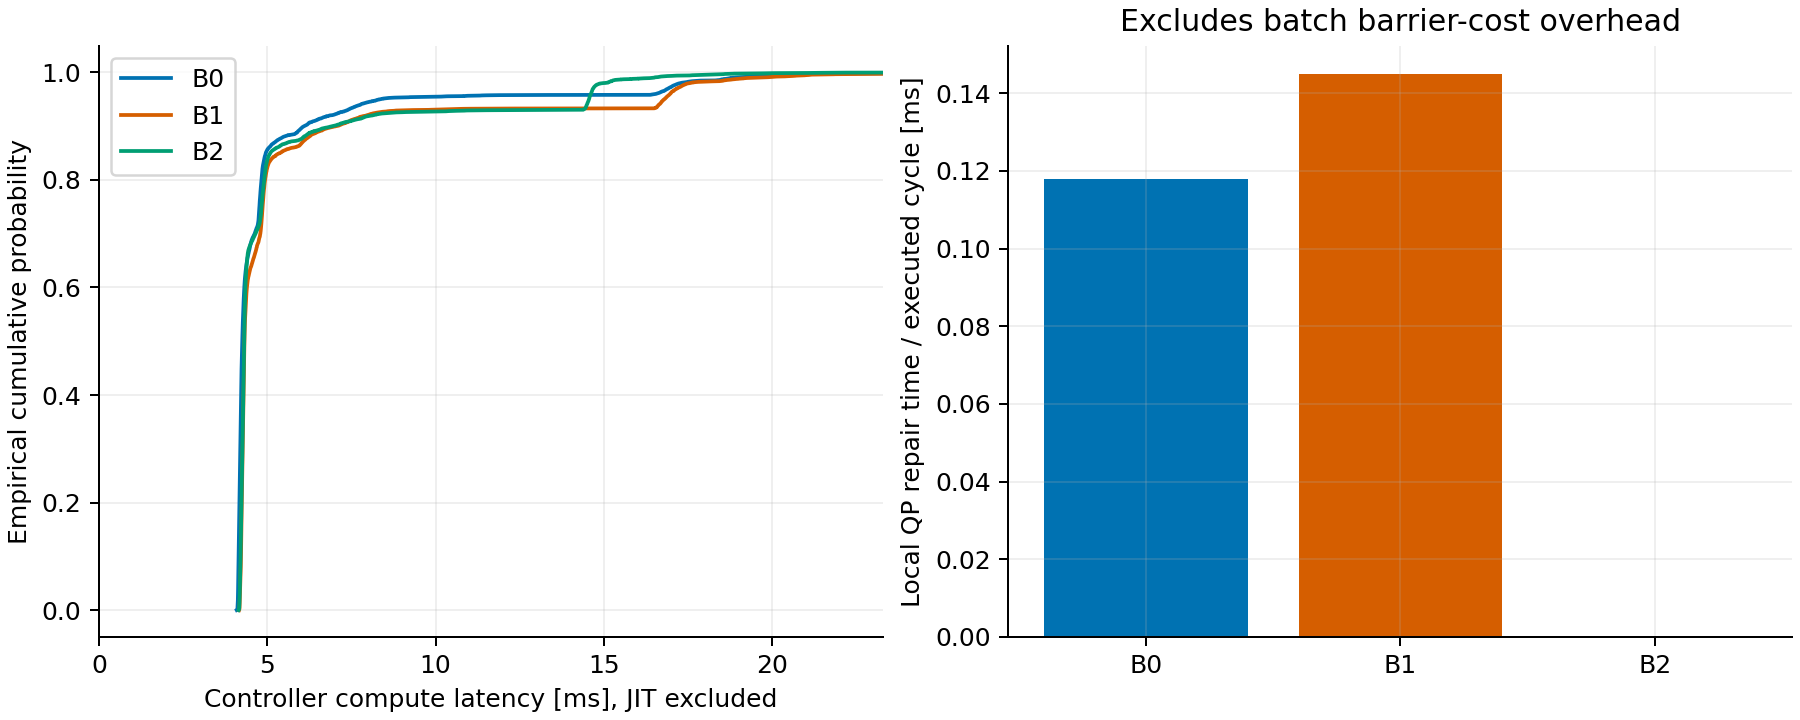
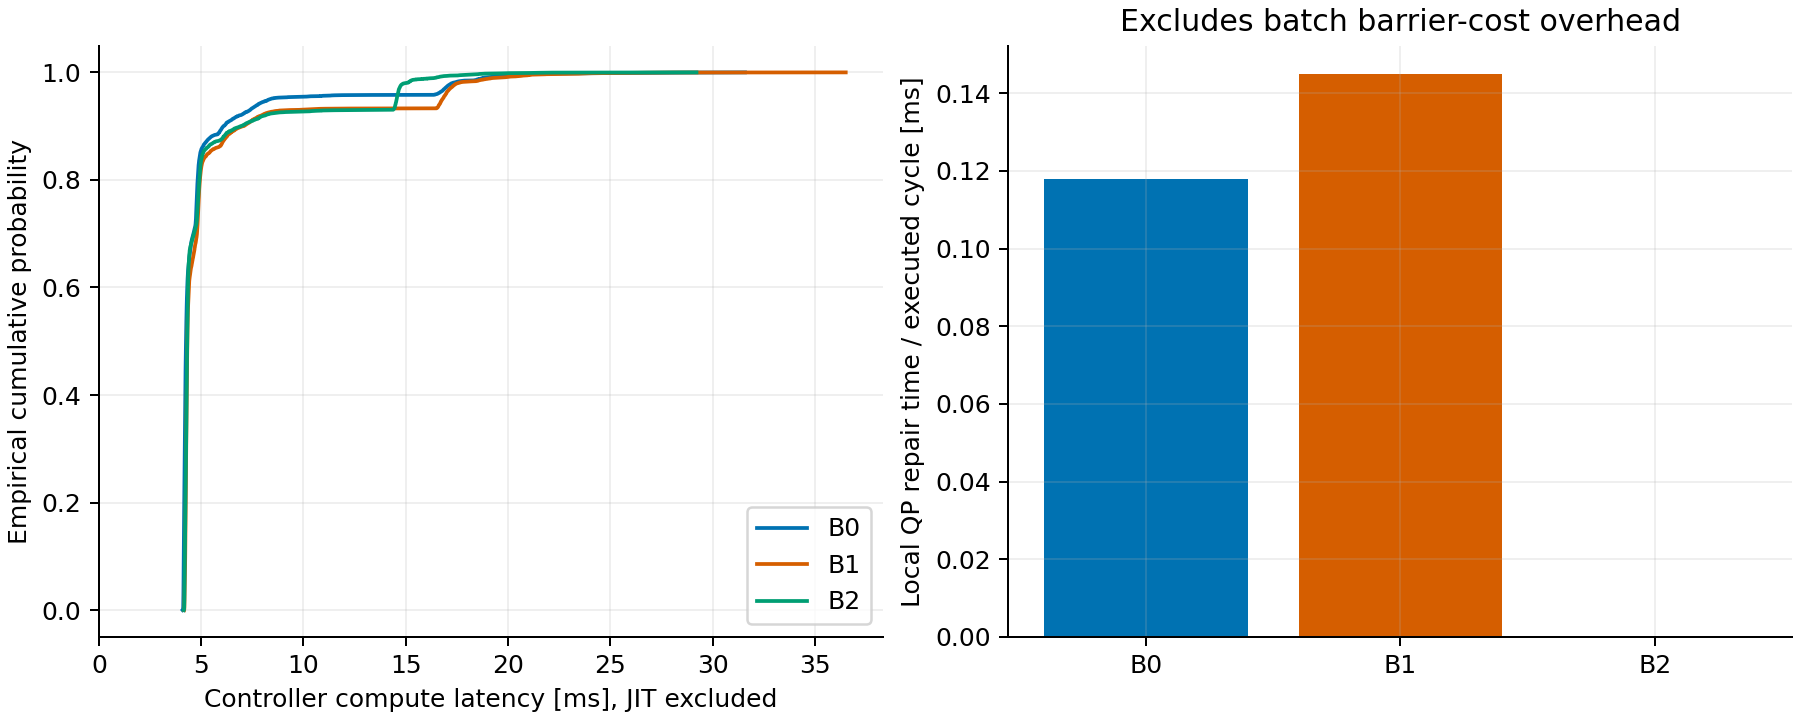
Include paired completion, planner latency and explicit result limitations in reports

diff --git a/experiments/report.py b/experiments/report.py
@@ -33,6 +33,7 @@ def report(source: Path, output: Path):
         raise ValueError("Incomplete or duplicate experiment matrix; cannot issue a final report")
     output.mkdir(parents=True, exist_ok=True)
     timing: dict[str, list[np.ndarray]] = {m: [] for m in manifest["methods"]}
+    miqp_timing: dict[str, list[np.ndarray]] = {m: [] for m in manifest["methods"]}
     end_contacts: dict[str, int] = {m: 0 for m in manifest["methods"]}
     for row in rows:
         if row["success"] == "True" and not np.isclose(float(row["sim_s"]), manifest["max_time"], rtol=0, atol=1e-9):
@@ -44,6 +45,7 @@ def report(source: Path, output: Path):
         if data["samples"].shape != (int(row["cycles"]), 19) or not np.allclose(data["samples"][:, 0], np.arange(1, int(row["cycles"]) + 1) * DT):
             raise ValueError("Trajectory rows do not match actual executed cycles")
         timing[row["method"]].append(data["cycle_ms"])
+        miqp_timing[row["method"]].append(data["miqp_ms"])
         end = data["samples"][-1]
         track = Track.load(row["track"])
         end_contacts[row["method"]] += int(any(collision(track, end[1:8], np.array([end[11+j], end[15+j], 0.0, 0.0]))
@@ -52,6 +54,7 @@ def report(source: Path, output: Path):
     for method in manifest["methods"]:
         selected = [r for r in rows if r["method"] == method]
         latencies = np.concatenate(timing[method])
+        high_latencies = np.concatenate(miqp_timing[method])
         repairs = sum(int(r["repair_attempts"]) for r in selected)
         repair_ms = sum(float(r["repair_total_ms"]) for r in selected)
         totals.append(dict(method=method, n=len(selected),
@@ -65,6 +68,9 @@ def report(source: Path, output: Path):
                            cycle_mean_ms=float(np.mean(latencies)),
                            cycle_p95_ms=float(np.percentile(latencies, 95)),
                            cycle_p99_ms=float(np.percentile(latencies, 99)),
+                           cycle_max_ms=float(np.max(latencies)),
+                           miqp_mean_ms=float(np.mean(high_latencies)),
+                           miqp_p95_ms=float(np.percentile(high_latencies, 95)),
                            cycles=len(latencies), deadline_overruns=int(np.sum(latencies > 100)),
                            repairs=repairs, repair_successes=sum(int(r["repair_successes"]) for r in selected),
                            repair_amortized_ms=repair_ms / len(latencies),
@@ -112,7 +118,7 @@ def report(source: Path, output: Path):
         axes[0].plot(data, np.linspace(0, 1, len(data)), color=COLORS[method], label=method)
     axes[0].set_xlabel("Controller compute latency [ms], JIT excluded")
     axes[0].set_ylabel("Empirical cumulative probability")
-    axes[0].set_xlim(0, max(r["cycle_p99_ms"] for r in totals) * 1.2)
+    axes[0].set_xlim(0, max(r["cycle_max_ms"] for r in totals) * 1.05)
     axes[0].legend()
     axes[1].bar([r["method"] for r in totals], [r["repair_amortized_ms"] for r in totals],
                 color=[COLORS[r["method"]] for r in totals])
@@ -158,6 +164,14 @@ def report(source: Path, output: Path):
         text.append(f"|{r['method']}|{r['completions']}/{r['n']}|{r['collisions']}|{r['boundary_failures']}|"
                     f"{r['mean_survival_s']:.1f}|{r['total_laps']:.2f}|{r['overtakes']}|{r['cycle_mean_ms']:.2f}|"
                     f"{r['cycle_p95_ms']:.2f}|{r['cycle_p99_ms']:.2f}|{r['repair_amortized_ms']:.3f}|")
+    lookup = {r["method"]: r for r in totals}
+    text += ["", "## 本次观察（不是成功预设）", ""]
+    if "B1" in lookup and "B0" in lookup:
+        full, baseline = lookup["B1"], lookup["B0"]
+        better = full["completions"] / full["n"] > baseline["completions"] / baseline["n"]
+        text.append(f"完整方法 B1 完成 {full['completions']}/{full['n']}，基线 B0 完成 {baseline['completions']}/{baseline['n']}；" +
+                    ("本批总体完成率更高，但尚不能证明普遍收益。" if better else "未观察到整体安全完成率优于基线，不能宣称 APF 方案已经有效。"))
+    text += ["动力学和跟踪未标定，失败终止原因、末态与不可恢复周期只能用于定位问题，不能据此断言单一失效原因。下一步优先验证无障碍跟踪和车辆参数，而不是继续增加方法组。"]
     text += ["", "延迟来自全部实际周期 pooled 数据，不是 episode P95 的平均。失败方法执行的周期较少、轨迹与状态不同，不能把两组耗时差直接归因为 shield 成本。",
              "碰撞/越界列为首要终止原因（同时违反时越界优先）。对最终车体独立 SAT 复核的物理接触次数：" +
              "；".join(f"{r['method']} {r['physical_end_contacts']} 次" for r in totals) + "。",
@@ -165,6 +179,9 @@ def report(source: Path, output: Path):
              "|方法|修复尝试|修复通过|回退|不可恢复周期|超过 100 ms 周期|", "|---|---:|---:|---:|---:|---:|"]
     for r in totals:
         text.append(f"|{r['method']}|{r['repairs']}|{r['repair_successes']}|{r['fallbacks']}|{r['unrecoverable']}|{r['deadline_overruns']} / {r['cycles']}|")
+    text += ["", "高层 MIQP 规划调用 pooled 均值 / P95（ms，含无活跃对手时的快速返回）：" +
+             "；".join(f"{r['method']} {r['miqp_mean_ms']:.2f} / {r['miqp_p95_ms']:.2f}" for r in totals) + "。",
+             "最大控制周期（ms）：" + "；".join(f"{r['method']} {r['cycle_max_ms']:.2f}" for r in totals) + "。"]
     text += ["", "## 同初始状态配对完成计数", "", "|比较|仅左组完成|仅右组完成|均完成|均失败|", "|---|---:|---:|---:|---:|"]
     for pair in paired:
         text.append(f"|{pair['comparison']}|{pair['left_only']}|{pair['right_only']}|{pair['both']}|{pair['neither']}|")
@@ -177,6 +194,7 @@ def report(source: Path, output: Path):
              "- 完成率不能单独代表赛车速度；应与所有 episode 的圈数、超车和存活时间一起阅读。",
              "- 开发试跑及调参失败保留在独立目录，不计入冻结源码的正式样本。",
              "- 真值几何在 0.1 s 执行采样点判断，不是连续时间扫掠碰撞证明。",
+             "- 固定种子与配置不等于跨硬件位级复现；Gurobi 墙钟时限可能影响边缘情形的可行解。",
              "", "## 图", "", "![赛道对照](comparison.png)", "", "![逐周期计时](latency.png)", "", "![预先固定选例](trajectory.png)",
              "", "复现：参见 `experiments/README.md`，逐次原始 CSV 与配置 manifest 一并交付。数据源是本地产生的 CSV/NPZ，不需要数据库；可复现聚合脚本为 `experiments/report.py`，不是 SQL 查询。"]
     (output / "REPORT.md").write_text("\n".join(text) + "\n")
